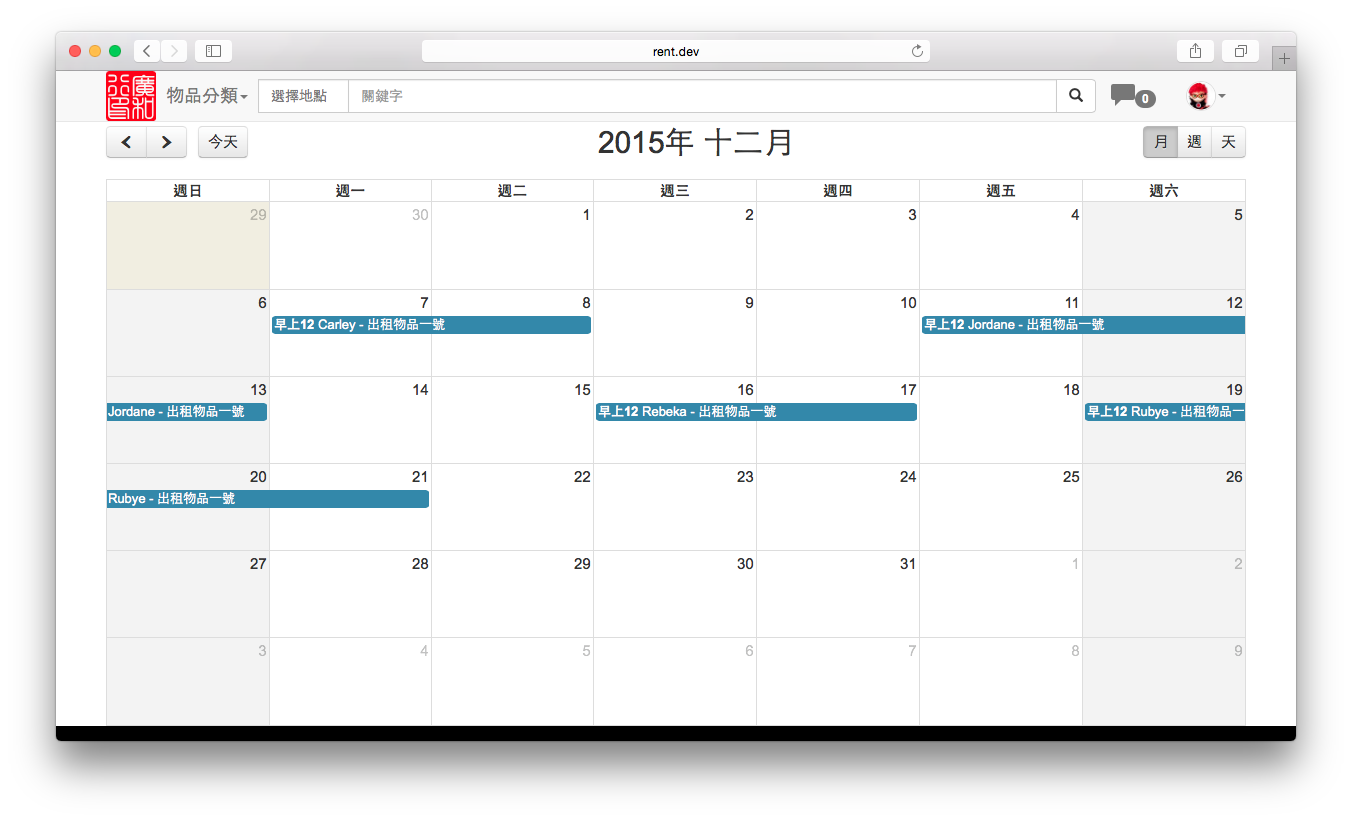
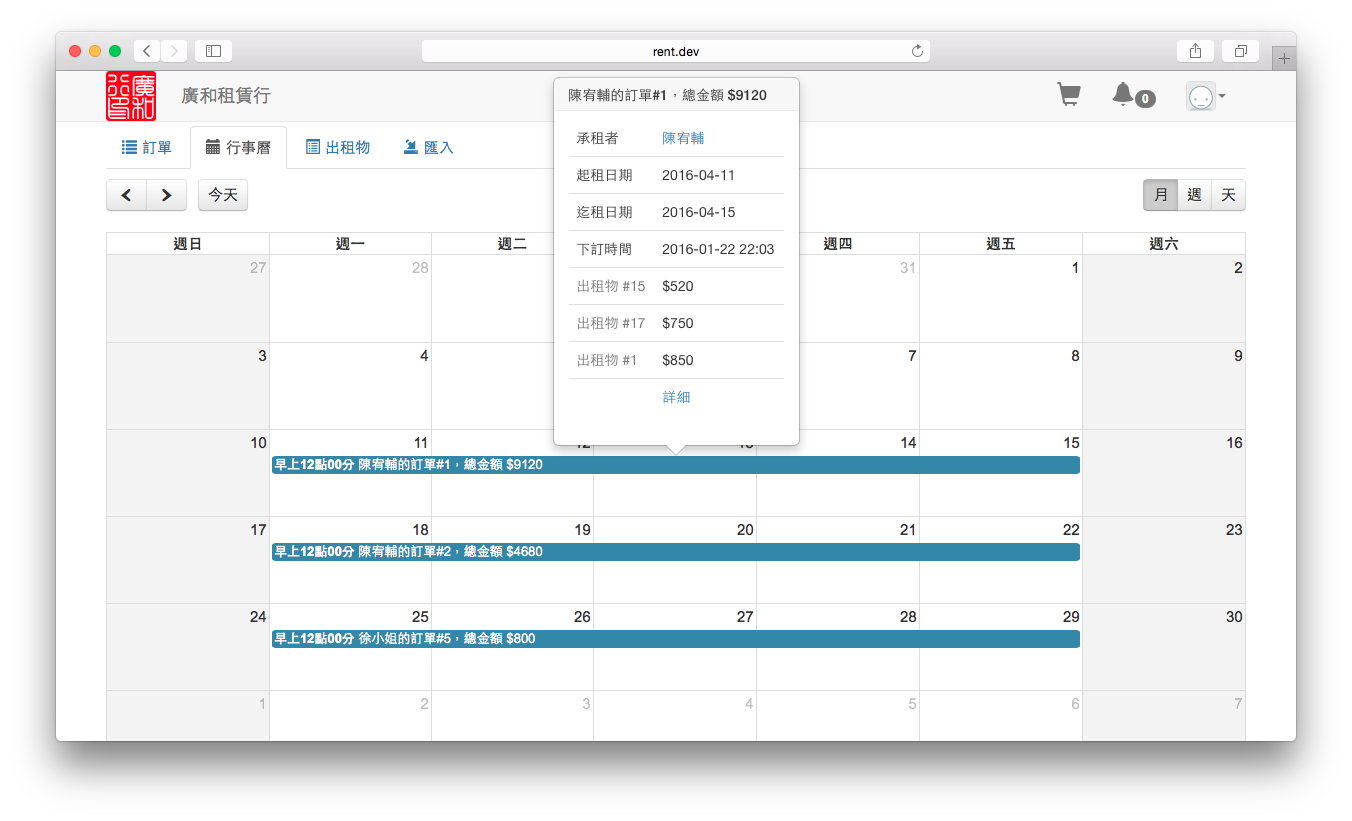
Add tours/import, customer action

diff --git a/app/assets/stylesheets/tours.scss b/app/assets/stylesheets/tours.scss
@@ -45,15 +45,13 @@
       &:before { right: 100%; }
     }
 
-    &.tours-upload { top: 30%; }
-    &.tours-facebook {
-      bottom: 35%;
-      &:before { width: 55%; }
-    }
-
     &.tours-calendar {
       top: 50%;
       &:before { width: 60%; }
+    }
+    &.tours-calendar-order {
+      top: 15%;
+      &:before { width: 260%; }
     }
 
     &.tours-record-info {
@@ -71,13 +69,27 @@
       &:before { width: 70%; }
     }
 
-    &.tours-dashboard-search {
+    &.tours-index-search {
       top: 27%;
       &:before { width: 70%; }
     }
-    &.tours-dashboard-records {
-      top: 38%;
-      &:before { width: 180%; }
+
+    &.tours-import {
+      bottom: 20%;
+      &:before {width: 180%;}
+    }
+    &.tours-new-item {
+      top: 25%;
+      &:before {width: 300%;}
+    }
+
+    &.tours-customer {
+      top: 25%;
+      &:before {width: 70%;}
+    }
+    &.tours-customer-show {
+      bottom: 15%;
+      &:before {width: 300%;}
     }
   }
 }

diff --git a/app/helpers/tours_helper.rb b/app/helpers/tours_helper.rb
@@ -1,5 +1,17 @@
 module ToursHelper
-  def render_next_path
+  def render_tours_prev_link(path)
+    link_to raw(t('helpers.tours.previous')), path, class: 'btn btn-lg btn-default pull-left'
+  end
+
+  def render_tours_next_link(path)
+    link_to raw(t('helpers.tours.next')), path, class: 'btn btn-lg btn-default pull-right'
+  end
+
+  def render_tours_title
+    content_tag :h1, t("controller.tours.action.#{action_name}"), class: 'text-center'
+  end
+
+  def render_tours_last_next_path
     user_signed_in? ? tours_path : new_user_registration_path
   end
 end

diff --git a/config/routes.rb b/config/routes.rb
@@ -10,7 +10,7 @@ Rails.application.routes.draw do
 
   resources :tours, only: [:index] do
     collection do
-      get :state, :calendar, :contract, :dashboard
+      get :calendar, :import, :state, :contract, :customer
     end
   end
 

diff --git a/app/controllers/tours_controller.rb b/app/controllers/tours_controller.rb
@@ -7,13 +7,16 @@ class ToursController < ApplicationController
   def calendar
   end
 
+  def import
+  end
+
   def state
   end
 
   def contract
   end
 
-  def dashboard
+  def customer
   end
 
   private
